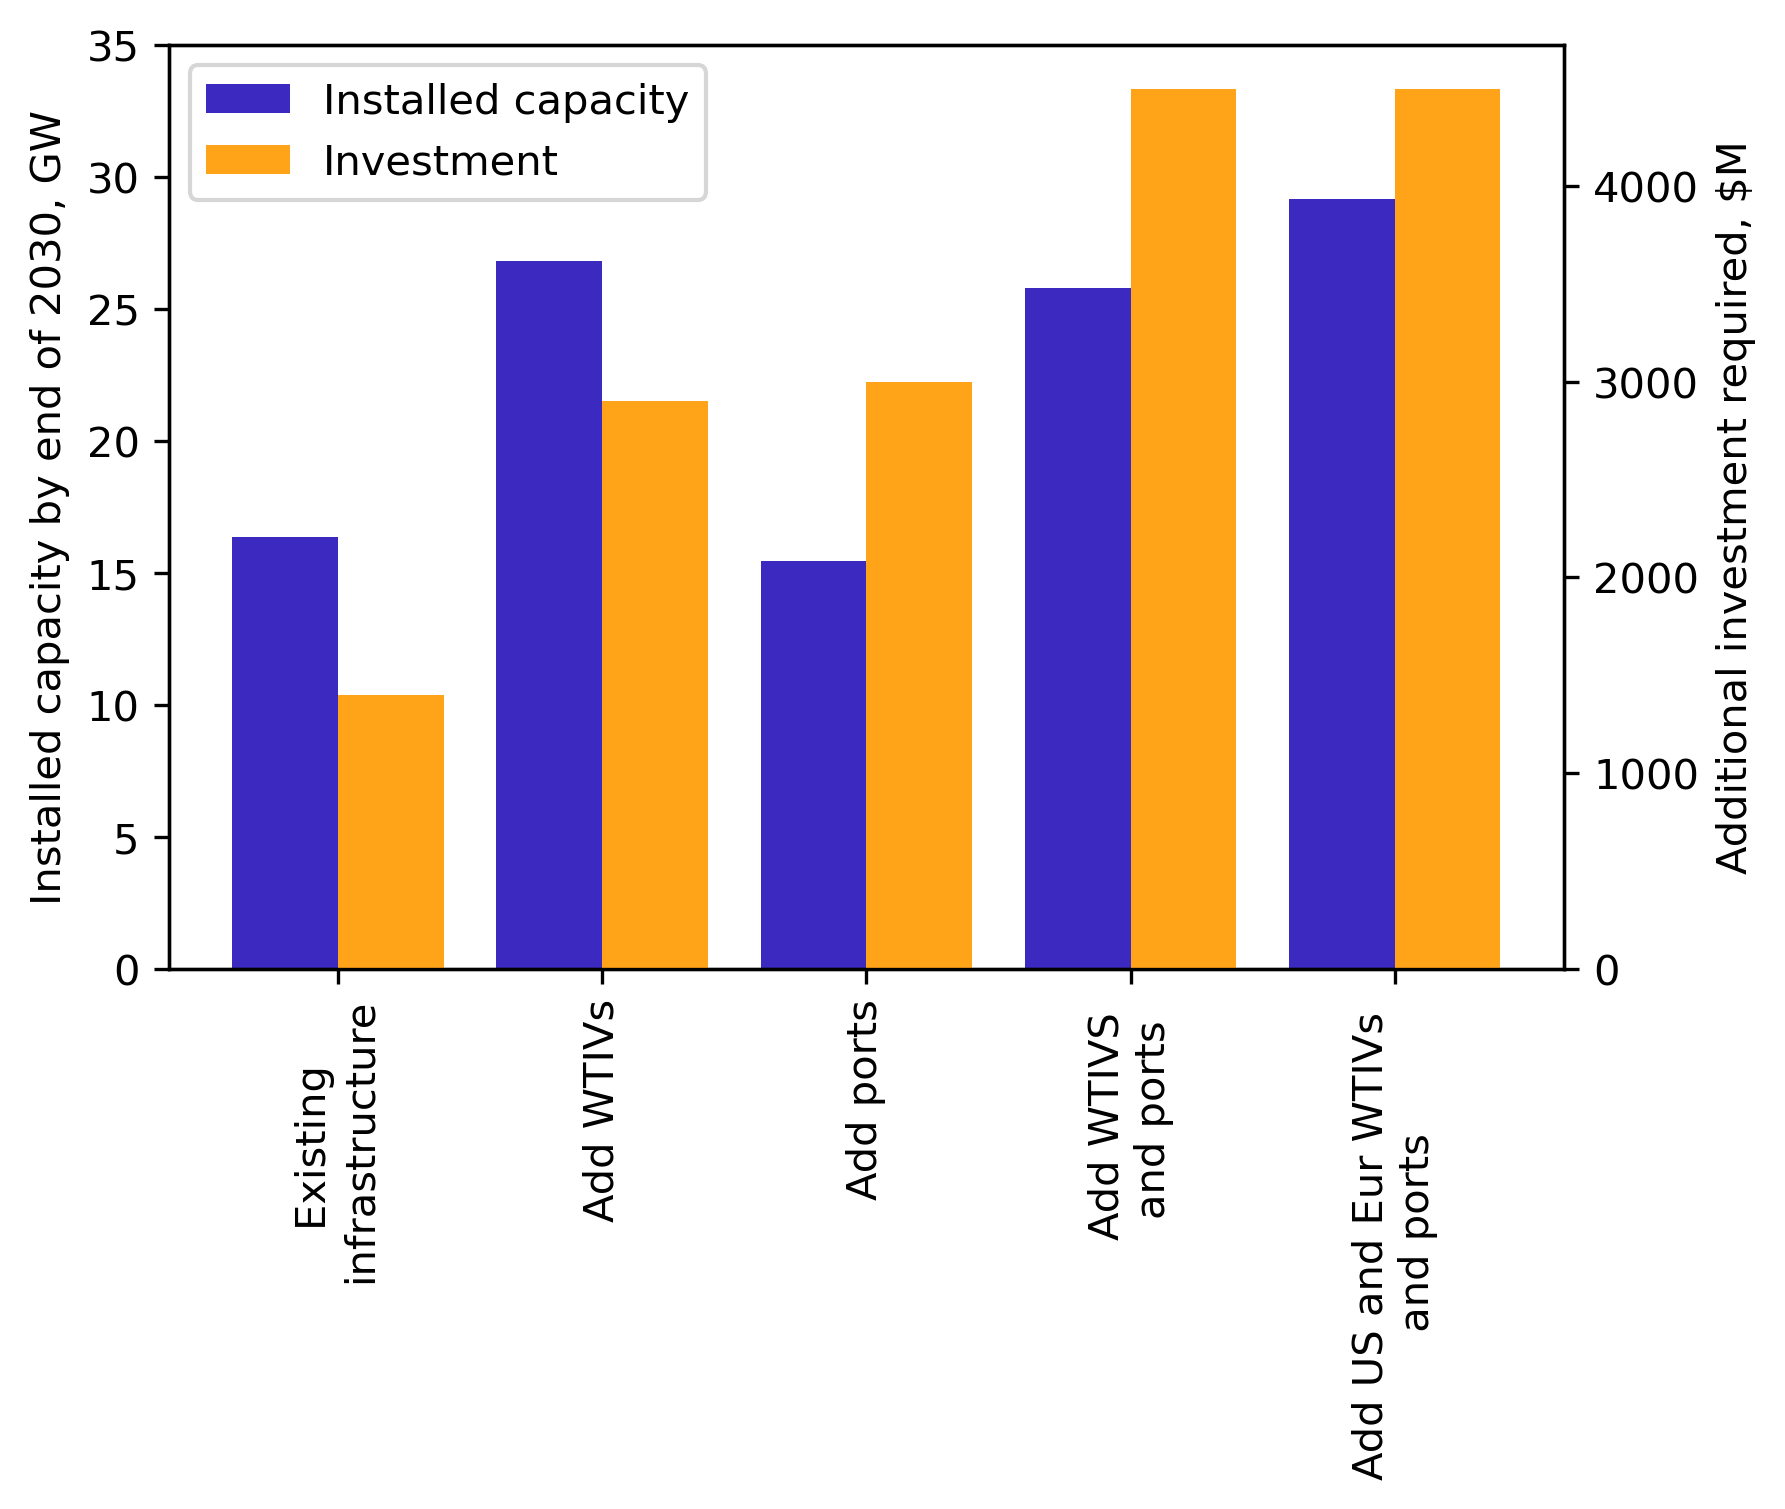
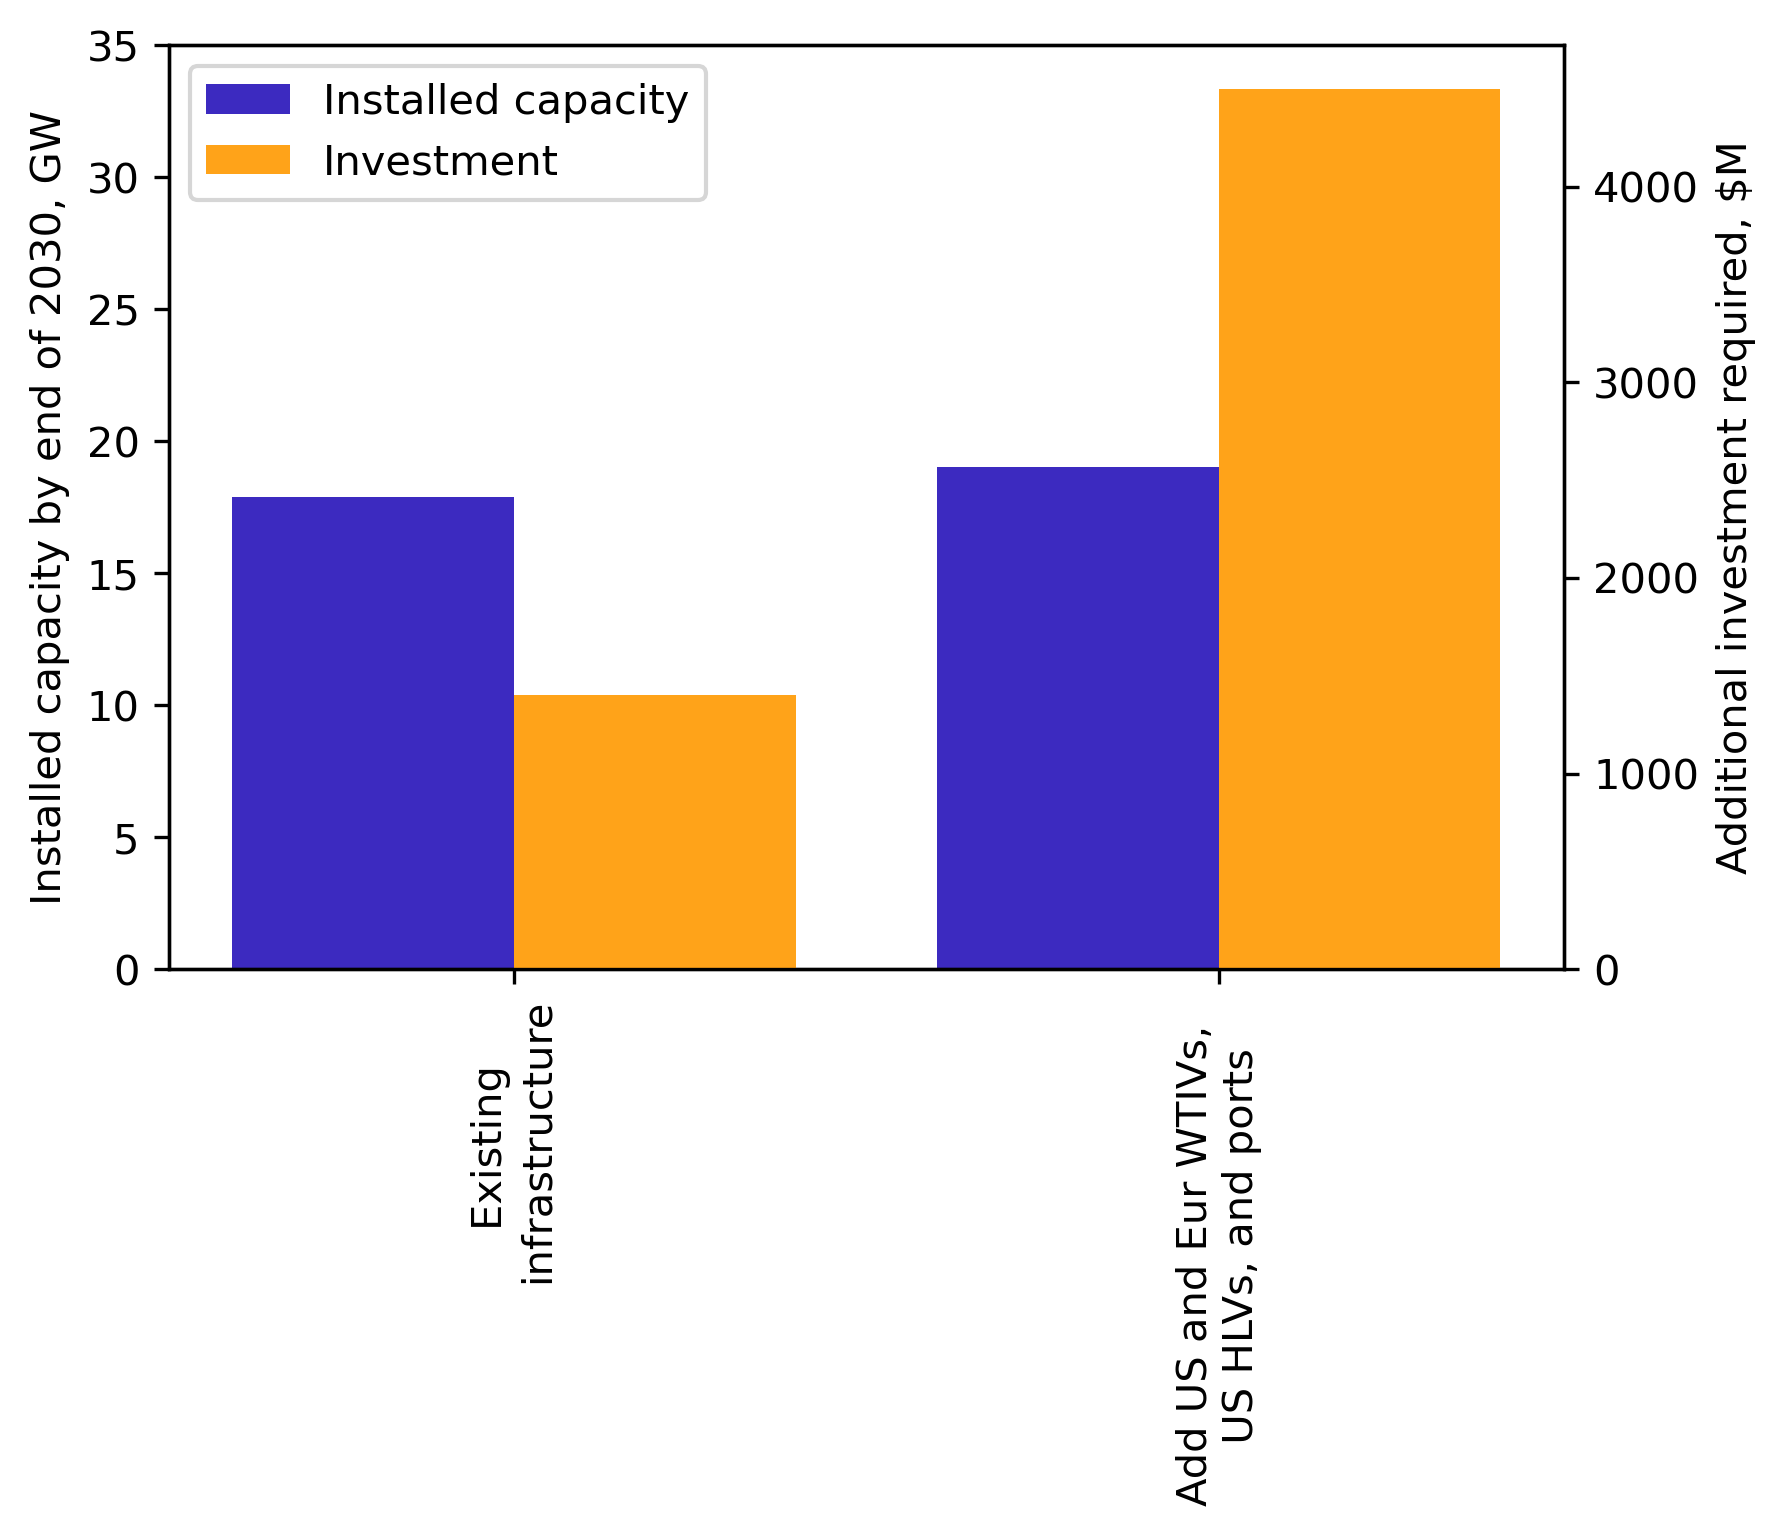
Initial testing of HLV resources

diff --git a/run_analysis.py b/run_analysis.py
@@ -24,14 +24,14 @@ scenarios = {
                  'initial': ia['base'],
                  'future': fa['base'],
                  'invest': [inv['base_wtiv']]},
-    'add_wtiv': {'pipeline': ip['base'],
-                 'initial': ia['base'],
-                 'future': fa['high_wtiv'],
-                 'invest': [inv['high_wtiv']],},
-    'add_ports': {'pipeline': ip['add_ports'],
-                 'initial': ia['base'],
-                 'future': fa['add_ports'],
-                 'invest': [inv['base_wtiv'], inv['add_port']],},
+    # 'add_wtiv': {'pipeline': ip['base'],
+    #              'initial': ia['base'],
+    #              'future': fa['high_wtiv'],
+    #              'invest': [inv['high_wtiv']],},
+    # 'add_ports': {'pipeline': ip['add_ports'],
+    #              'initial': ia['base'],
+    #              'future': fa['add_ports'],
+    #              'invest': [inv['base_wtiv'], inv['add_port']],},
      # 'reduce_ports': {'pipeline': ip['reduce_ports'],
      #              'initial': ia['base'],
      #              'future': fa['high_wtiv'],
@@ -40,17 +40,17 @@ scenarios = {
      #              'initial': ia['base'],
      #              'future': fa['add_ports'],
      #              'invest': [inv['base_wtiv'], inv['add_ports_fast']],},
-     'add_wtiv_ports': {'pipeline': ip['add_ports'],
-               'initial': ia['base'],
-               'future': fa['add_wtiv_ports'],
-               'invest': [inv['high_wtiv'], inv['add_port']],},
+     # 'add_wtiv_ports': {'pipeline': ip['add_ports'],
+     #           'initial': ia['base'],
+     #           'future': fa['add_wtiv_ports'],
+     #           'invest': [inv['high_wtiv'], inv['add_port']],},
      # 'add_wtiv_ports_fast': {'pipeline': ip['add_ports_fast'],
      #              'initial': ia['base'],
      #              'future': fa['add_wtiv_ports'],
      #              'invest': [inv['high_wtiv'], inv['add_ports_fast']],},
-     'add_wtiv_eur_ports': {'pipeline': ip['add_ports'],
+     'add_wtiv_eur_hlv_ports': {'pipeline': ip['add_ports'],
                   'initial': ia['add_wtiv'],
-                  'future': fa['add_wtiv_ports'],
+                  'future': fa['add_wtiv_hlv_ports'],
                   'invest': [inv['high_wtiv'], inv['add_port']],},
 }
 invest_year_base = [dt.datetime(yi, 1, 1) for yi in inv['year']]
@@ -88,7 +88,8 @@ if __name__ == '__main__':
         new_wtiv = [1 for fr in future_resources if 'wtiv' in fr]
         new_ports = [1 for fr in future_resources if 'port' in fr]
 
-        total_wtiv = np.sum([num_wtiv]+new_wtiv)
+        # total_wtiv = np.sum([num_wtiv]+new_wtiv)
+        total_wtiv = 99
         total_ports = np.sum([num_port]+new_ports)
 
         fig_name = str(total_wtiv)+'wtiv_'+str(total_ports)+'ports_'+name

diff --git a/helpers.py b/helpers.py
@@ -15,8 +15,7 @@ input_pipelines = {
 initial_allocations = {
 # Existing
 'base': {
-    "wtiv": ('example_wtiv', 1),
-    "hlv": ('example_heavy_lift_vessel', 1),
+    "wtiv": [('example_wtiv', 1),('example_heavy_lift_vessel', 3)],
     "feeder": ('example_feeder', 4),
     "port": [
         ('new_bedford', 1),
@@ -30,7 +29,7 @@ initial_allocations = {
     ]
     },
 'add_wtiv': {
-    "wtiv": ('example_wtiv', 2),
+    "wtiv": [('example_wtiv', 1), ('example_heavy_lift_vessel', 5)],
     "feeder": ('example_feeder', 4),
     "port": [
         ('new_bedford', 1),
@@ -71,6 +70,15 @@ future_allocations = {
     ['wtiv', 'example_wtiv', [dt.datetime(2029, 1, 1)]],
     ['port', 'njwp', [dt.datetime(2028, 1, 1)]],
     ],
+'add_wtiv_hlv_ports': [
+    ['wtiv', 'example_wtiv', [dt.datetime(2025, 1, 1)]],
+    ['wtiv', 'example_wtiv', [dt.datetime(2026, 1, 1)]],
+    # ['wtiv', 'example_wtiv', [dt.datetime(2028, 1, 1)]],
+    # ['wtiv', 'example_heavy_lift_vessel', [dt.datetime(2027, 1, 1)]],
+    # ['wtiv', 'example_wtiv', [dt.datetime(2028, 1, 1)]],
+    # ['wtiv', 'example_wtiv', [dt.datetime(2029, 1, 1)]],
+    ['port', 'njwp', [dt.datetime(2028, 1, 1)]],
+]
 }
 
 current_investment = 150 + 157 + 200 + 400 + 500 #New Bedford, New London, SBMT, NJWP, Charybdis
@@ -90,6 +98,7 @@ plot_names_map = {
 'add_ports': 'Add ports',
 'add_wtiv_ports': 'Add WTIVS \nand ports',
 'add_wtiv_eur_ports': 'Add US and Eur WTIVs \n and ports',
+'add_wtiv_eur_hlv_ports': 'Add US and Eur WTIVs,  \n US HLVs, and ports',
 'reduce_ports': 'Reduced ports',
 'add_ports_fast': 'Add ports \n(early constr.)',
 'add_wtiv_ports_fast ': 'Add WTIVS \nand ports (early constr.)',
